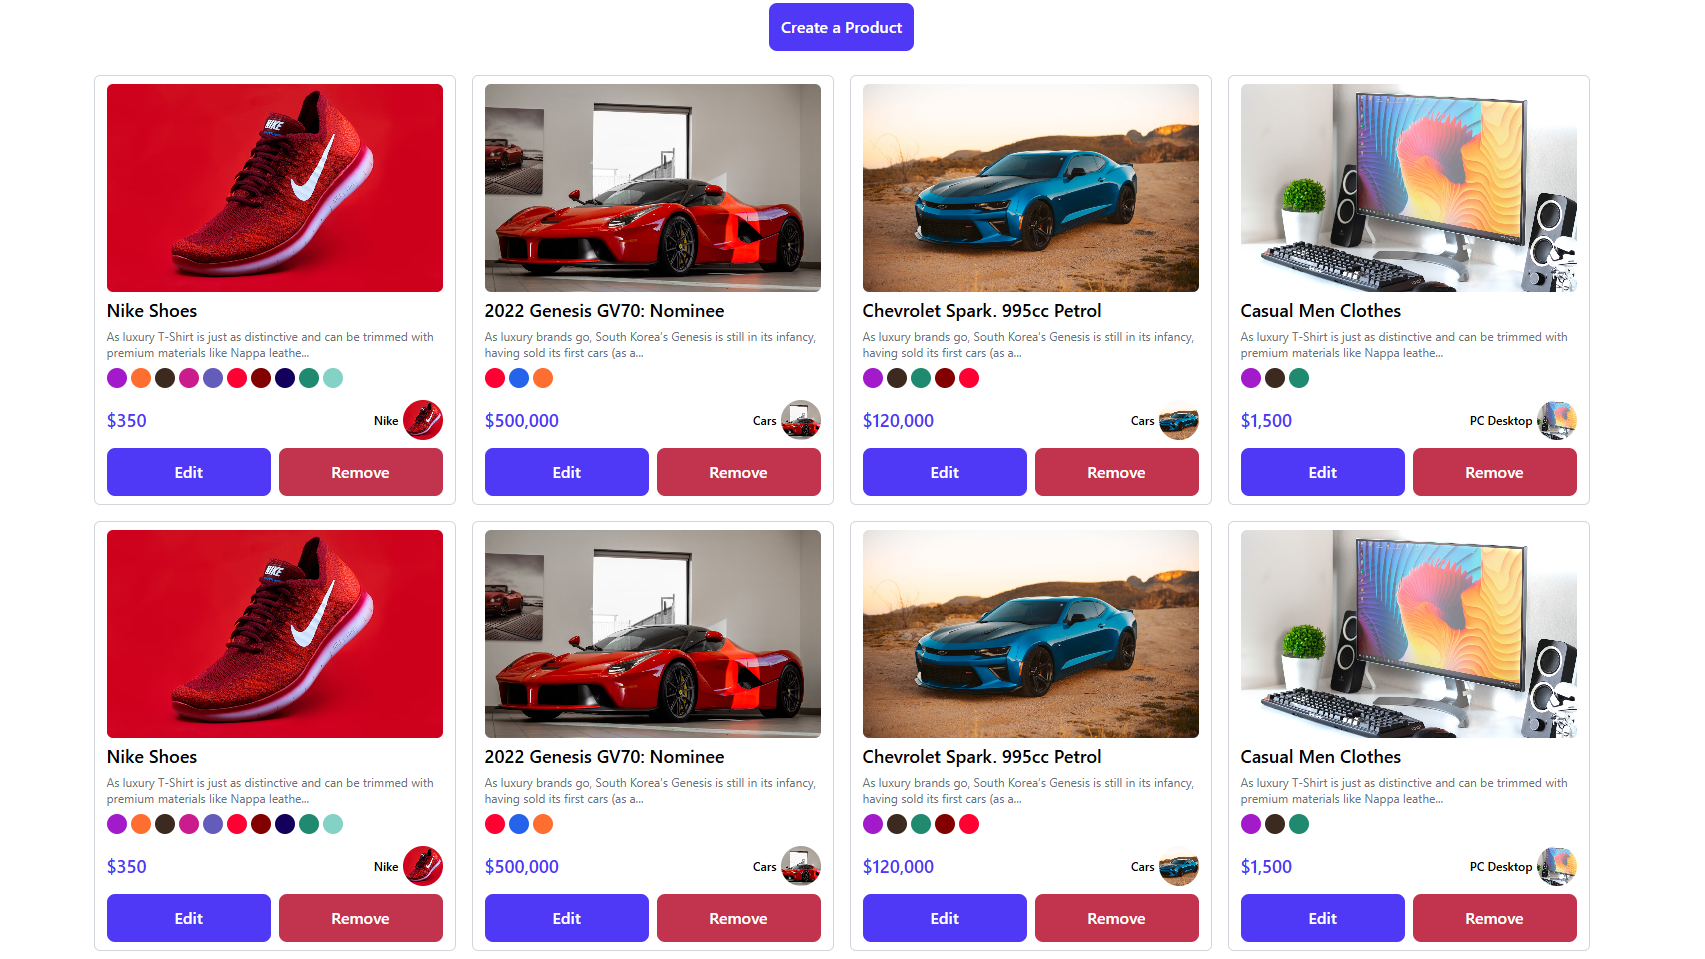
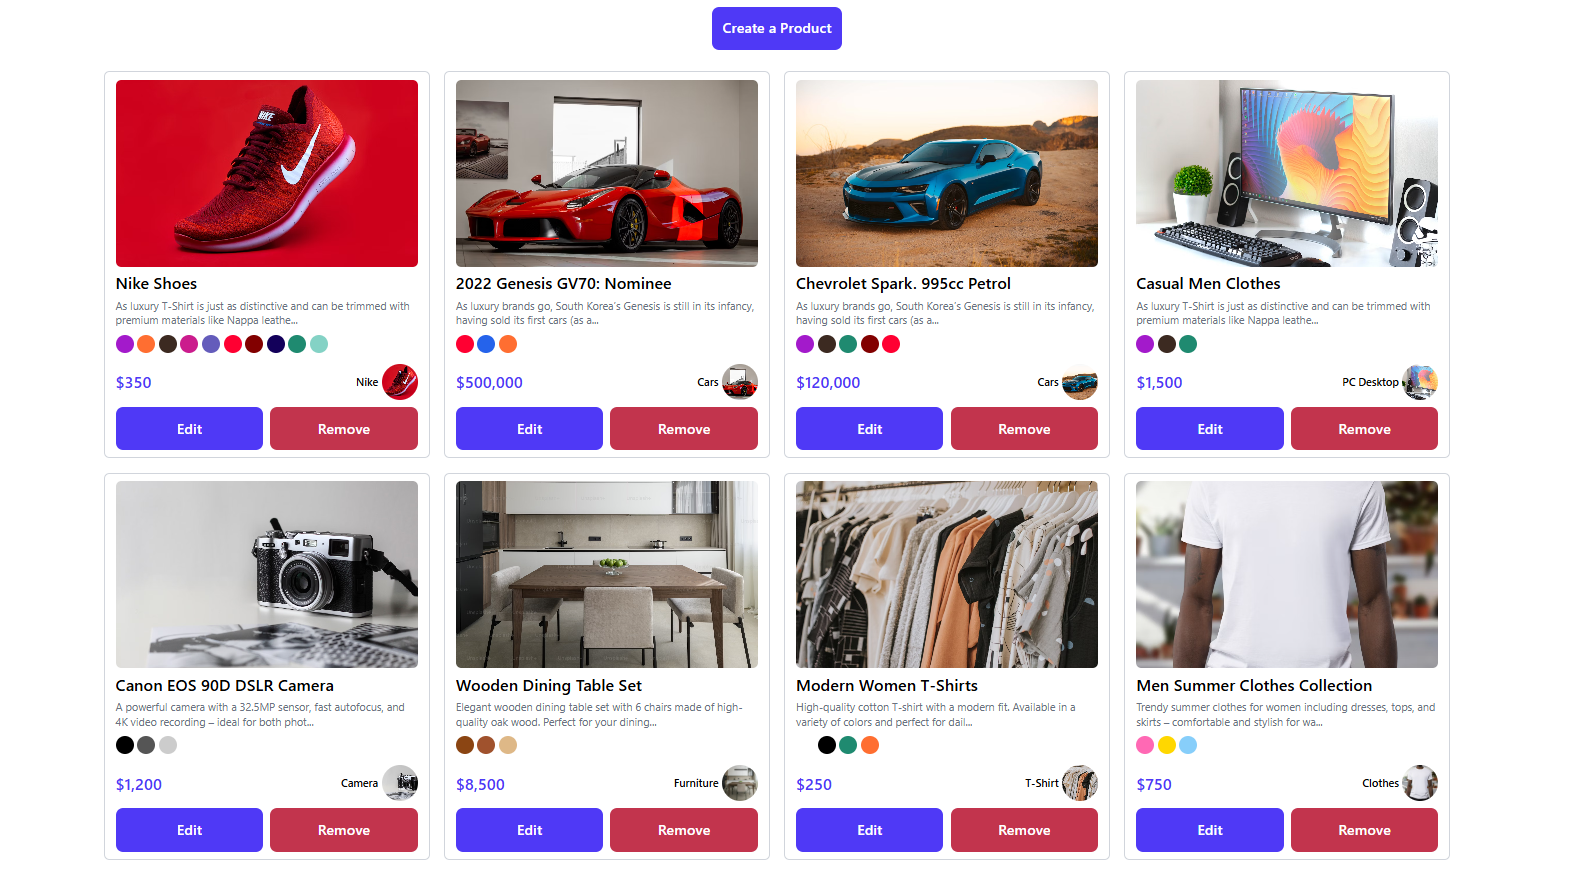
refactor code

diff --git a/src/data/index.ts b/src/data/index.ts
@@ -52,50 +52,50 @@ export const ProductList: IProduct[] = [
   },
   {
     id: uuid(),
-    title: "Nike Shoes",
-    description: "As luxury T-Shirt is just as distinctive and can be trimmed with premium materials like Nappa leather and carbon fiber.",
-    imageURL: "https://images.unsplash.com/photo-1542291026-7eec264c27ff?ixlib=rb-4.0.3&ixid=MnwxMjA3fDB8MHxwaG90by1wYWdlfHx8fGVufDB8fHx8&auto=format&fit=crop&w=1170&q=80",
-    price: "350",
-    colors: ["#A31ACB", "#FF6E31", "#3C2A21", "#CB1C8D", "#645CBB", "#FF0032", "#820000", "#13005A", "#1F8A70", "#84D2C5"],
+    title: "Canon EOS 90D DSLR Camera",
+    description: "A powerful camera with a 32.5MP sensor, fast autofocus, and 4K video recording – ideal for both photography and video creators.",
+    imageURL: "https://images.unsplash.com/photo-1510127034890-ba27508e9f1c?q=80&w=2070&auto=format&fit=crop&ixlib=rb-4.1.0&ixid=M3wxMjA3fDB8MHxwaG90by1wYWdlfHx8fGVufDB8fHx8fA%3D%3D",
+    price: "1200",
+    colors: ["#000000", "#555555", "#CCCCCC"],
     category: {
-      name: "Nike",
-      imageURL: "https://images.unsplash.com/photo-1542291026-7eec264c27ff?ixlib=rb-4.0.3&ixid=MnwxMjA3fDB8MHxwaG90by1wYWdlfHx8fGVufDB8fHx8&auto=format&fit=crop&w=1170&q=80",
+      name: "Camera",
+      imageURL: "https://images.unsplash.com/photo-1510127034890-ba27508e9f1c?q=80&w=2070&auto=format&fit=crop&ixlib=rb-4.1.0&ixid=M3wxMjA3fDB8MHxwaG90by1wYWdlfHx8fGVufDB8fHx8fA%3D%3D",
     },
   },
   {
     id: uuid(),
-    title: "2022 Genesis GV70: Nominee",
-    description: "As luxury brands go, South Korea’s Genesis is still in its infancy, having sold its first cars (as an independent Hyundai spinoff), the G80 and G90 sedans, for the 2017 model year. Despite its relative youth, Genesis has had a string of successes: We named the automaker’s G70 sports sedan our Best of 2019 award winner, and its GV80 mid-size SUV was a nominee last year for our Best of the Year award. New for 2022, the GV70 compact luxury SUV impresses on a number of fronts. Sleek exterior styling bridges the gap between a traditional SUV and the coupelike SUV look that’s increasingly popular among luxury marques. The cabin is just as distinctive and can be trimmed with premium materials like Nappa leather and carbon fiber.",
-    imageURL: "https://images.unsplash.com/photo-1583121274602-3e2820c69888?ixlib=rb-4.0.3&ixid=MnwxMjA3fDB8MHxwaG90by1wYWdlfHx8fGVufDB8fHx8&auto=format&fit=crop&w=1170&q=80",
-    price: "500000",
-    colors: ["#FF0032", "#2563eb", "#FF6E31"],
+    title: "Wooden Dining Table Set",
+    description: "Elegant wooden dining table set with 6 chairs made of high-quality oak wood. Perfect for your dining room.",
+    imageURL: "https://plus.unsplash.com/premium_photo-1676320514175-8a41932fcd46?q=80&w=2075&auto=format&fit=crop&ixlib=rb-4.1.0&ixid=M3wxMjA3fDB8MHxwaG90by1wYWdlfHx8fGVufDB8fHx8fA%3D%3D",
+    price: "8500",
+    colors: ["#8B4513", "#A0522D", "#DEB887"],
     category: {
-      name: "Cars",
-      imageURL: "https://images.unsplash.com/photo-1583121274602-3e2820c69888?ixlib=rb-4.0.3&ixid=MnwxMjA3fDB8MHxwaG90by1wYWdlfHx8fGVufDB8fHx8&auto=format&fit=crop&w=1170&q=80",
+      name: "Furniture",
+      imageURL: "https://plus.unsplash.com/premium_photo-1676320514175-8a41932fcd46?q=80&w=2075&auto=format&fit=crop&ixlib=rb-4.1.0&ixid=M3wxMjA3fDB8MHxwaG90by1wYWdlfHx8fGVufDB8fHx8fA%3D%3D",
     },
   },
   {
     id: uuid(),
-    title: "Chevrolet Spark. 995cc Petrol",
-    description: "As luxury brands go, South Korea’s Genesis is still in its infancy, having sold its first cars (as an independent Hyundai spinoff), the G80 and G90 sedans, for the 2017 model year. Despite its relative youth, Genesis has had a string of successes: We named the automaker’s G70 sports sedan our Best of 2019 award winner, and its GV80 mid-size SUV was a nominee last year for our Best of the Year award. New for 2022, the GV70 compact luxury SUV impresses on a number of fronts. Sleek exterior styling bridges the gap between a traditional SUV and the coupelike SUV look that’s increasingly popular among luxury marques. The cabin is just as distinctive and can be trimmed with premium materials like Nappa leather and carbon fiber.",
-    imageURL: "https://images.unsplash.com/photo-1552519507-da3b142c6e3d?ixlib=rb-4.0.3&ixid=MnwxMjA3fDB8MHxwaG90by1wYWdlfHx8fGVufDB8fHx8&auto=format&fit=crop&w=1170&q=80",
-    price: "120000",
-    colors: ["#A31ACB", "#3C2A21", "#1F8A70", "#820000", "#FF0032"],
+    title: "Modern Women T-Shirts",
+    description: "High-quality cotton T-shirt with a modern fit. Available in a variety of colors and perfect for daily wear.",
+    imageURL: "https://images.unsplash.com/photo-1512436991641-6745cdb1723f?auto=format&fit=crop&w=1170&q=80",
+    price: "250",
+    colors: ["#FFFFFF", "#000000", "#1F8A70", "#FF6E31"],
     category: {
-      name: "Cars",
-      imageURL: "https://images.unsplash.com/photo-1552519507-da3b142c6e3d?ixlib=rb-4.0.3&ixid=MnwxMjA3fDB8MHxwaG90by1wYWdlfHx8fGVufDB8fHx8&auto=format&fit=crop&w=1170&q=80",
+      name: "T-Shirt",
+      imageURL: "https://images.unsplash.com/photo-1512436991641-6745cdb1723f?auto=format&fit=crop&w=1170&q=80",
     },
   },
   {
     id: uuid(),
-    title: "Casual Men Clothes",
-    description: "As luxury T-Shirt is just as distinctive and can be trimmed with premium materials like Nappa leather and carbon fiber.",
-    imageURL: "https://images.unsplash.com/photo-1552831388-6a0b3575b32a?ixlib=rb-4.0.3&ixid=MnwxMjA3fDB8MHxwaG90by1wYWdlfHx8fGVufDB8fHx8&auto=format&fit=crop&w=1632&q=80",
-    price: "1500",
-    colors: ["#A31ACB", "#3C2A21", "#1F8A70"],
+    title: "Men Summer Clothes Collection",
+    description: "Trendy summer clothes for women including dresses, tops, and skirts – comfortable and stylish for warm weather.",
+    imageURL: "https://images.unsplash.com/photo-1521572163474-6864f9cf17ab?auto=format&fit=crop&w=1170&q=80",
+    price: "750",
+    colors: ["#FF69B4", "#FFD700", "#87CEFA"],
     category: {
-      name: "PC Desktop",
-      imageURL: "https://images.unsplash.com/photo-1552831388-6a0b3575b32a?ixlib=rb-4.0.3&ixid=MnwxMjA3fDB8MHxwaG90by1wYWdlfHx8fGVufDB8fHx8&auto=format&fit=crop&w=1632&q=80",
+      name: "Clothes",
+      imageURL: "https://images.unsplash.com/photo-1521572163474-6864f9cf17ab?auto=format&fit=crop&w=1170&q=80",
     },
   },
 ];

diff --git a/src/App.tsx b/src/App.tsx
@@ -26,7 +26,12 @@ const App = () => {
     },
   };
   /* ----- State ----- */
-  const [isOpen, setIsOpen] = useState(false);
+  /* - Modal - */
+  const [isOpenAddModal, setIsOpenAddModal] = useState(false);
+  const [isOpenEditModal, setIsOpenEditModal] = useState(false);
+  const [isOpenRemoveModal, setIsOpenRemoveModal] = useState(false);
+
+  const [products, setProducts] = useState<IProduct[]>(ProductList);
   const [productInp, setProductInp] = useState<IProduct>(defaultProductObj);
   const [errorsmsg, setErrorsmsg] = useState<IvalidtionForm>({
     title: "",
@@ -35,19 +40,16 @@ const App = () => {
     price: "",
   });
   const [tempColors, setTempColors] = useState<string[]>([]);
-  const [products, setProducts] = useState<IProduct[]>(ProductList);
   const [selectedCategory, setSelectedCategory] = useState(categories[0]);
   const [productToEdit, setProductToEdit] = useState<IProduct>(defaultProductObj);
   const [productToEditIndex, setProductToEditIndex] = useState<number>(0);
-  const [isOpenEditModal, setIsOpenEditModal] = useState(false);
-  const [isOpenConfirmModal, setIsOpenConfirmModal] = useState(false);
 
   /* ----- Hanlders ----- */
-  const openModal = () => {
-    setIsOpen(true);
+  const openAddModal = () => {
+    setIsOpenAddModal(true);
   };
 
-  const closeModal = () => {
+  const closeAddModal = () => {
     setProductInp(defaultProductObj);
     setErrorsmsg({
       title: "",
@@ -55,7 +57,7 @@ const App = () => {
       imageURL: "",
       price: "",
     });
-    setIsOpen(false);
+    setIsOpenAddModal(false);
   };
 
   const openEditModal = () => {
@@ -72,15 +74,16 @@ const App = () => {
     });
     setIsOpenEditModal(false);
   };
+
   const openConfirmModal = () => {
-    setIsOpenConfirmModal(true);
+    setIsOpenRemoveModal(true);
   };
 
   const closeConfirmModal = () => {
-    setIsOpenConfirmModal(false);
+    setIsOpenRemoveModal(false);
   };
 
-  const onChangeHandler: ChangeEventHandler<HTMLInputElement> = (e) => {
+  const onChangeAddHandler: ChangeEventHandler<HTMLInputElement> = (e) => {
     const { name, value } = e.target;
     setProductInp({
       ...productInp,
@@ -91,6 +94,7 @@ const App = () => {
       [name]: "",
     });
   };
+
   const onChangeEditHandler: ChangeEventHandler<HTMLInputElement> = (e) => {
     const { name, value } = e.target;
     setProductToEdit({
@@ -123,9 +127,10 @@ const App = () => {
     setProductInp(defaultProductObj);
     setTempColors([]);
     setSelectedCategory(categories[0]);
-    closeModal();
+    closeAddModal();
     toast.success("Product has been added successfully!");
   };
+
   const submitEditHandler = (e: FormEvent<HTMLFormElement>): void => {
     e.preventDefault();
     const { title, description, imageURL, price } = productToEdit;
@@ -153,10 +158,11 @@ const App = () => {
       <label className="mb-[2px] text-sm font-medium text-gray-700" htmlFor={input.id}>
         {input.label}
       </label>
-      <Input type={input.type} name={input.name} id={input.id} value={productInp[input.name]} onChange={onChangeHandler} />
+      <Input type={input.type} name={input.name} id={input.id} value={productInp[input.name]} onChange={onChangeAddHandler} />
       <ErrorMessage msg={errorsmsg[input.name]} />
     </div>
   ));
+
   const renderProductColors = Colors.map((color) => (
     <CircleColor
       key={color}
@@ -195,13 +201,16 @@ const App = () => {
 
   return (
     <main className="container mx-auto ">
-      <Button className="bg-indigo-600 hover:bg-indigo-700 block mx-auto my-6" onClick={openModal} width="w-fit">
+      <Button className="bg-indigo-600 hover:bg-indigo-700 block mx-auto my-6" onClick={openAddModal} width="w-fit">
         Create a Product
       </Button>
+
+      {/* Products */}
       <div className="grid md:grid-cols-2 lg:grid-cols-3 xl:grid-cols-4 gap-4 m-5 ">{renderProductList}</div>
+
       {/* Add Product Modal */}
-      <Modal isOpen={isOpen} close={closeModal} title="Add a New Product">
-        <span className="text-2xl font-medium p-3 cursor-pointer absolute top-1 right-3" onClick={closeModal} title="Close">
+      <Modal isOpen={isOpenAddModal} close={closeAddModal} title="Add a New Product">
+        <span className="text-2xl font-medium p-3 cursor-pointer absolute top-1 right-3" onClick={closeAddModal} title="Close">
           x
         </span>
         <form className="space-y-3" onSubmit={submitHandler}>
@@ -239,8 +248,9 @@ const App = () => {
           </div>
         </form>
       </Modal>
+
       {/* Delete Product Confirm Modal */}
-      <Modal isOpen={isOpenConfirmModal} close={closeConfirmModal} title="Are you sure you want to delete this product?">
+      <Modal isOpen={isOpenRemoveModal} close={closeConfirmModal} title="Are you sure you want to delete this product?">
         <p className="text-sm text-gray-500 leading-snug mb-4">Deleting this product will remove it permanently from your inventory. Any associated data, sales history, and other related information will also be deleted. Please make sure this is the intended action.</p>
         <div className="flex items-center space-x-3">
           <Button className="bg-[#c2344d] hover:bg-red-700" onClick={removeProductHandler}>
@@ -251,6 +261,7 @@ const App = () => {
           </Button>
         </div>
       </Modal>
+      
       <Toaster position="top-left" reverseOrder={false} />
     </main>
   );
